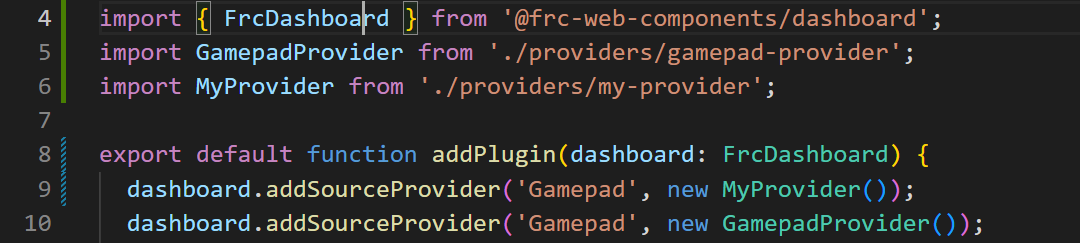
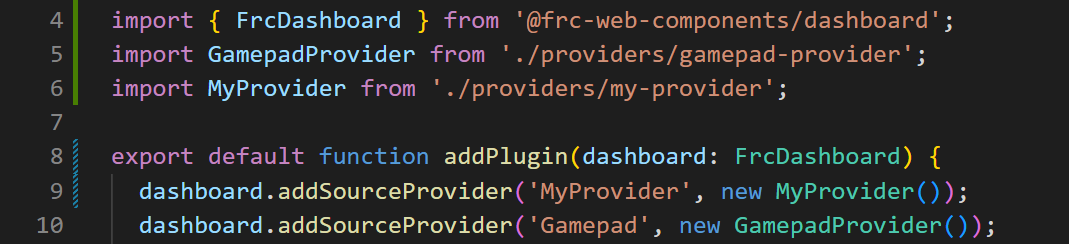
Fixed typos

diff --git a/docs/source/plugins.rst b/docs/source/plugins.rst
@@ -56,7 +56,7 @@ Now add the following lines to `index.ts`:
 .. code-block:: typescript
    
    // This is how the plugin adds the source provider to the dashboard
-   dashboard.addSourceProvider('Gamepad', new MyProvider());
+   dashboard.addSourceProvider('MyProvider', new MyProvider());
 
 
 Your `index.ts` file should now look something like this:
